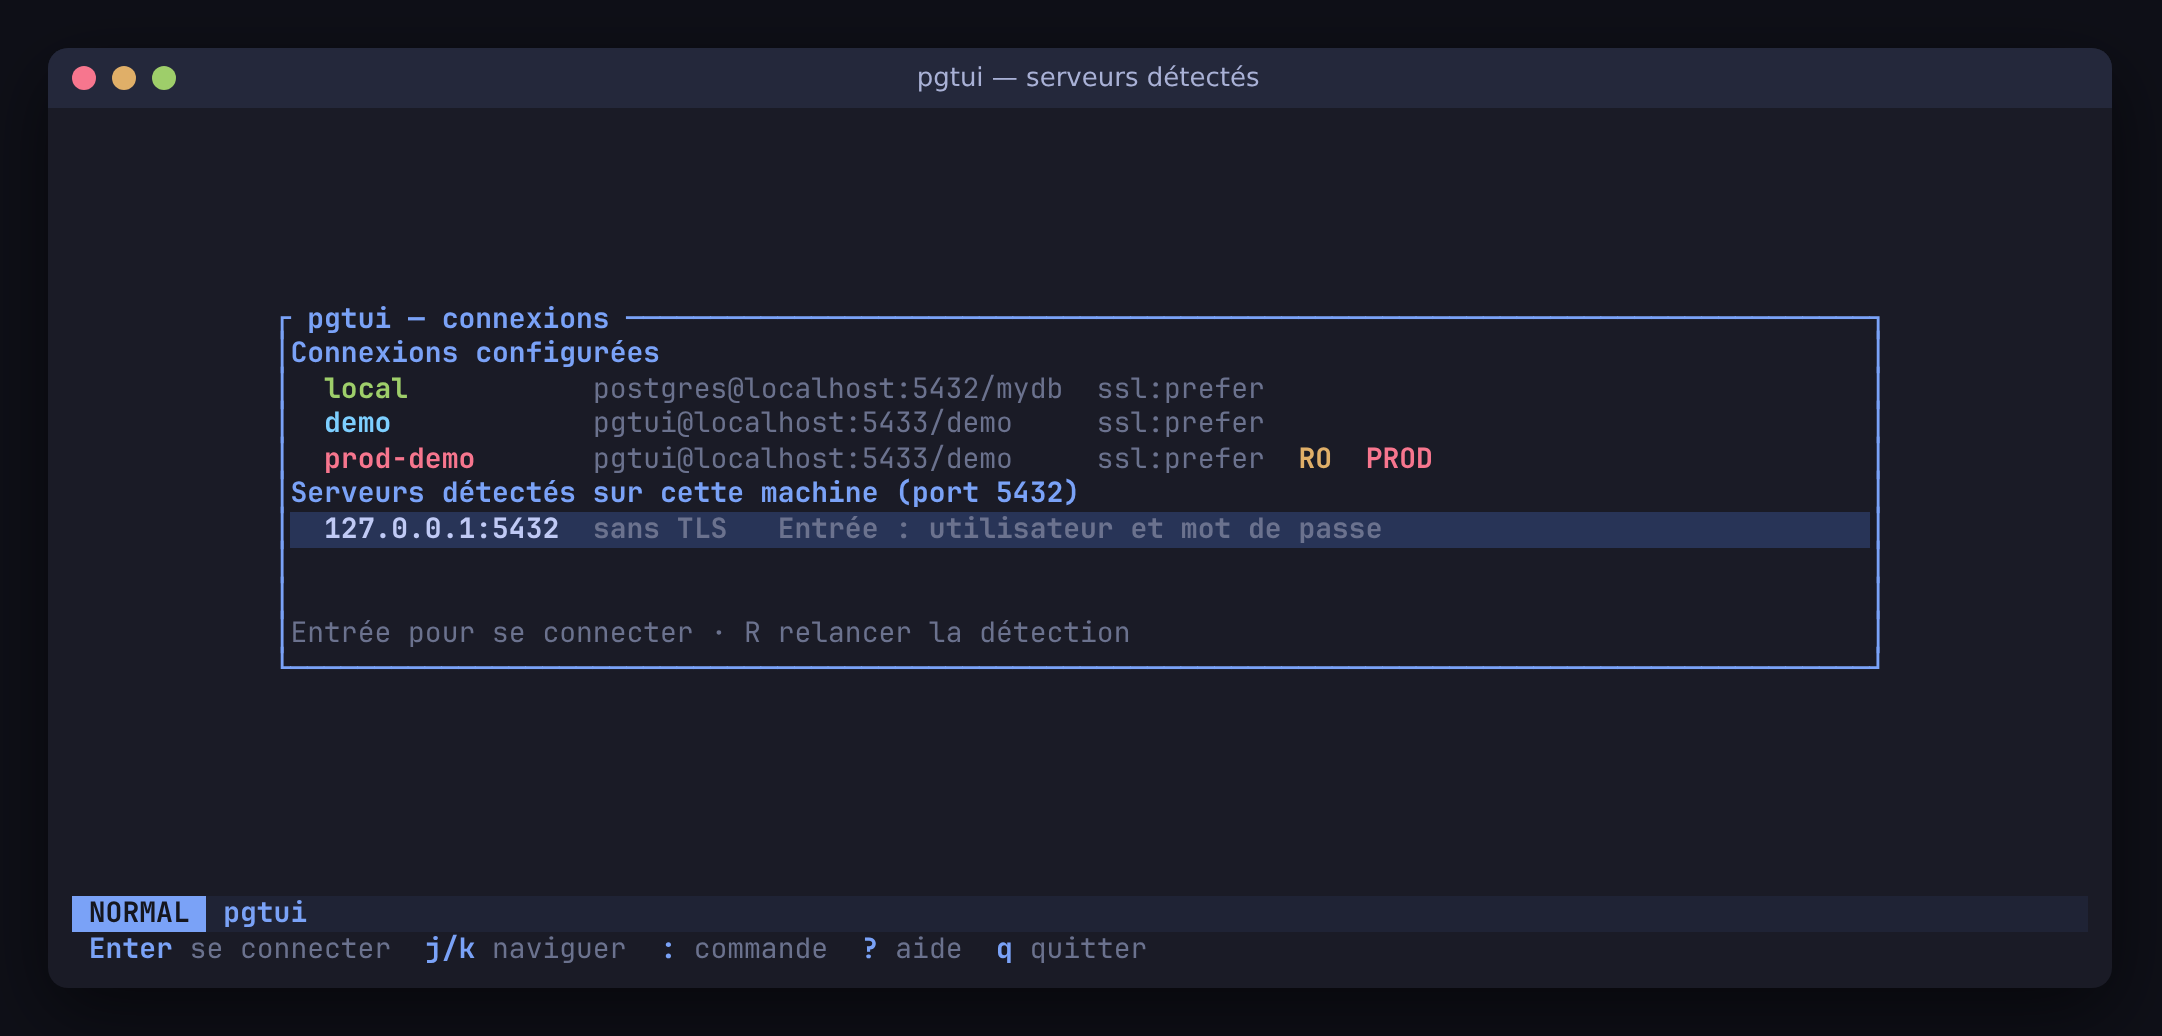
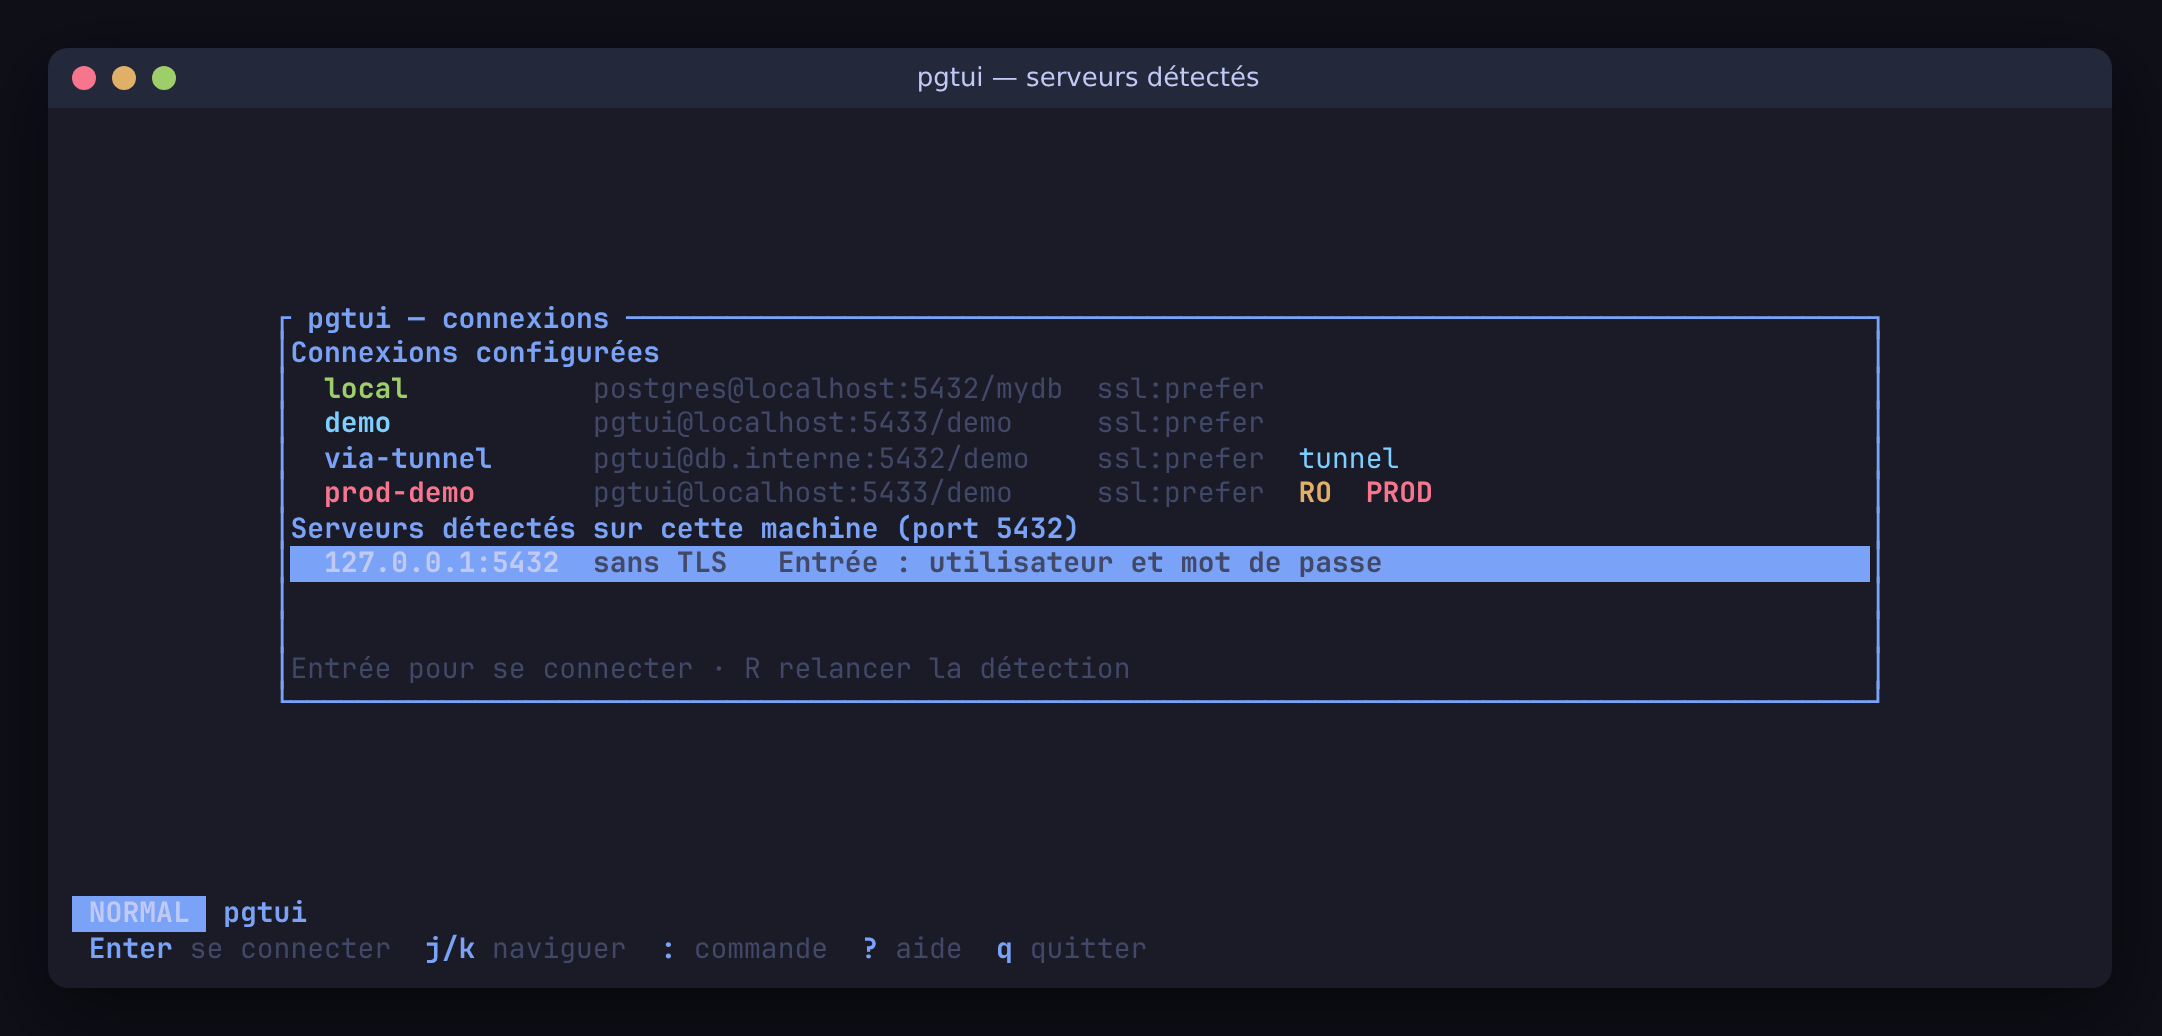
README et captures : thème terminal, tunnel
Claude-Session: https://claude.ai/code/session_01LTxdicoeJ8LTgU8LYkgdiX

diff --git a/scripts/screenshots/ansi2html.py b/scripts/screenshots/ansi2html.py
@@ -1,16 +1,35 @@
 """Used by capture.sh. Convert `tmux capture-pane -e -p` output (ANSI SGR) to a standalone HTML page
-that looks like a terminal window. Usage: ansi2html.py in.ans out.html "title"
+that looks like a terminal window.
+Usage: ansi2html.py in.ans out.html "title" [tokyonight|onelight|gruvbox]
 """
 import html
 import re
 import sys
 import unicodedata
 
-FG, BG = "#c0caf5", "#1a1b26"
-BASE16 = [
-    "#15161e", "#f7768e", "#9ece6a", "#e0af68", "#7aa2f7", "#bb9af7", "#7dcfff", "#a9b1d6",
-    "#414868", "#ff899d", "#9fe044", "#faba4a", "#8db0ff", "#c7a9ff", "#a4daff", "#c0caf5",
-]
+# Terminal palettes: default foreground / background, the 16 ANSI colours,
+# and the window chrome. pgtui's "terminal" theme only uses these, so the
+# same capture rendered with another palette shows what it looks like in
+# another terminal theme.
+PALETTES = {
+    "tokyonight": {
+        "fg": "#c0caf5", "bg": "#1a1b26", "bar": "#24283b", "page": "#0f1018",
+        "ansi": ["#15161e", "#f7768e", "#9ece6a", "#e0af68", "#7aa2f7", "#bb9af7", "#7dcfff", "#a9b1d6",
+                 "#414868", "#ff899d", "#9fe044", "#faba4a", "#8db0ff", "#c7a9ff", "#a4daff", "#c0caf5"],
+    },
+    "onelight": {
+        "fg": "#383a42", "bg": "#fafafa", "bar": "#e5e5e6", "page": "#d4d4d8",
+        "ansi": ["#383a42", "#e45649", "#50a14f", "#c18401", "#4078f2", "#a626a4", "#0184bc", "#a0a1a7",
+                 "#a0a1a7", "#e45649", "#50a14f", "#c18401", "#4078f2", "#a626a4", "#0184bc", "#ffffff"],
+    },
+    "gruvbox": {
+        "fg": "#ebdbb2", "bg": "#282828", "bar": "#3c3836", "page": "#1d2021",
+        "ansi": ["#282828", "#cc241d", "#98971a", "#d79921", "#458588", "#b16286", "#689d6a", "#a89984",
+                 "#928374", "#fb4934", "#b8bb26", "#fabd2f", "#83a598", "#d3869b", "#8ec07c", "#ebdbb2"],
+    },
+}
+PALETTE = PALETTES[sys.argv[4] if len(sys.argv) > 4 else "tokyonight"]
+FG, BG, BASE16 = PALETTE["fg"], PALETTE["bg"], PALETTE["ansi"]
 
 
 def xterm256(n):
@@ -118,10 +137,10 @@ def main():
     src, dst, title = sys.argv[1], sys.argv[2], sys.argv[3]
     body = convert(open(src, encoding="utf-8").read())
     page = f"""<!doctype html><html><head><meta charset="utf-8"><style>
-body {{ margin:0; background:#0f1018; display:inline-block; padding:24px; }}
+body {{ margin:0; background:{PALETTE["page"]}; display:inline-block; padding:24px; }}
 .win {{ background:{BG}; border-radius:10px; box-shadow:0 12px 40px rgba(0,0,0,.55); overflow:hidden; }}
-.bar {{ height:30px; background:#24283b; display:flex; align-items:center; padding:0 12px; gap:8px;
-        font:13px 'DejaVu Sans',sans-serif; color:#a9b1d6; }}
+.bar {{ height:30px; background:{PALETTE["bar"]}; display:flex; align-items:center; padding:0 12px; gap:8px;
+        font:13px 'DejaVu Sans',sans-serif; color:{FG}; }}
 .dot {{ width:12px; height:12px; border-radius:50%; }}
 .title {{ flex:1; text-align:center; margin-right:52px; }}
 pre {{ margin:0; padding:10px 12px; font-family:'JetBrains Mono','DejaVu Sans Mono','WenQuanYi Zen Hei Mono','Noto Color Emoji',monospace;

diff --git a/README.md b/README.md
@@ -85,7 +85,7 @@ Fichier : `~/.config/pgtui/config.toml`, créé avec un exemple commenté au pre
 page_size = 200               # lignes par page dans la vue Data
 default_connection = "local"  # présélectionnée dans le sélecteur
 keymap = "default"            # preset ; surcharges dans [keymap]
-theme = "dark"                # "dark" | "light"
+theme = "terminal"            # "terminal" (couleurs du terminal) | "dark" | "light"
 mouse = false                 # capture souris (désactive la sélection native du terminal)
 statement_timeout_secs = 0    # 0 = aucun timeout
 show_system_schemas = false
@@ -107,6 +107,7 @@ password_env = "PGPASSWORD_LOCAL"      # variable d'environnement
 sslmode = "prefer"                     # disable | prefer | require | verify-ca | verify-full
 # sslrootcert = "/path/ca.pem"         # CA pour verify-ca / verify-full
 read_only = false                      # true : session en default_transaction_read_only = on
+# tunnel_cmd = "ssh -N -o BatchMode=yes -o ExitOnForwardFailure=yes -L {port}:db.interne:5432 bastion"
 color = "green"                        # couleur du bandeau ; "red" => production
 # production = true                    # bandeau permanent + confirmation avant tout commit
 # statement_timeout_secs = 30
@@ -132,7 +133,32 @@ expand = ["l", "right", "enter"]
 
 Contextes : `global`, `picker`, `tree`, `center`, `schema`, `data`. Notation : `ctrl+p`, `alt+enter`, `shift+tab`, `f5`, `space`, `gg` (séquence), `ctrl+w h` (séquence avec modificateur). La liste des actions et leur nom figurent dans l'aide (`?`). Une surcharge remplace les touches par défaut de l'action, et une touche réaffectée est retirée de son ancienne action.
 
+### Tunnel SSH (ou autre)
+
+Pour une base joignable seulement par rebond, `tunnel_cmd` donne la commande qui ouvre le tunnel ; `{port}` y est remplacé par un port local libre choisi par pgtui :
+
+```toml
+[[connections]]
+name = "prod"
+host = "db.interne"          # informatif : la connexion passe par le tunnel
+user = "app"
+database = "shop"
+password_cmd = "pass show db/prod"
+tunnel_cmd = "ssh -N -o BatchMode=yes -o ExitOnForwardFailure=yes -L {port}:db.interne:5432 bastion"
+# tunnel_timeout_secs = 15
+```
+
+À la connexion, pgtui lance la commande (stdin fermé : elle ne doit rien demander, d'où `BatchMode=yes` avec une clé ou ssh-agent), attend que le port réponde, puis se connecte à `127.0.0.1:{port}`. Toutes les bases du serveur passent par ce tunnel. Si la commande échoue, son message d'erreur (stderr) s'affiche ; si le tunnel tombe, la session est signalée « déconnectée » et `:reconnect` le relance. Le processus est arrêté à la déconnexion et en quittant. Toute commande qui ouvre un port local convient (`kubectl port-forward`, `cloud-sql-proxy`…).
+
+![Connexion par tunnel](docs/screenshots/17-tunnel.png)
+
 ### Thème
+
+Par défaut (`theme = "terminal"`), pgtui n'utilise que les couleurs de votre terminal (texte et fond par défaut, 16 couleurs ANSI), comme nvim sans `termguicolors` : il reprend automatiquement le thème du terminal, clair ou sombre. `dark` et `light` sont des thèmes en couleurs exactes (truecolor).
+
+| Terminal Tokyo Night | Terminal One Light | Terminal Gruvbox |
+|---|---|---|
+| ![](docs/screenshots/18-theme-tokyonight.png) | ![](docs/screenshots/18-theme-onelight.png) | ![](docs/screenshots/18-theme-gruvbox.png) |
 
 ```toml
 [theme]
